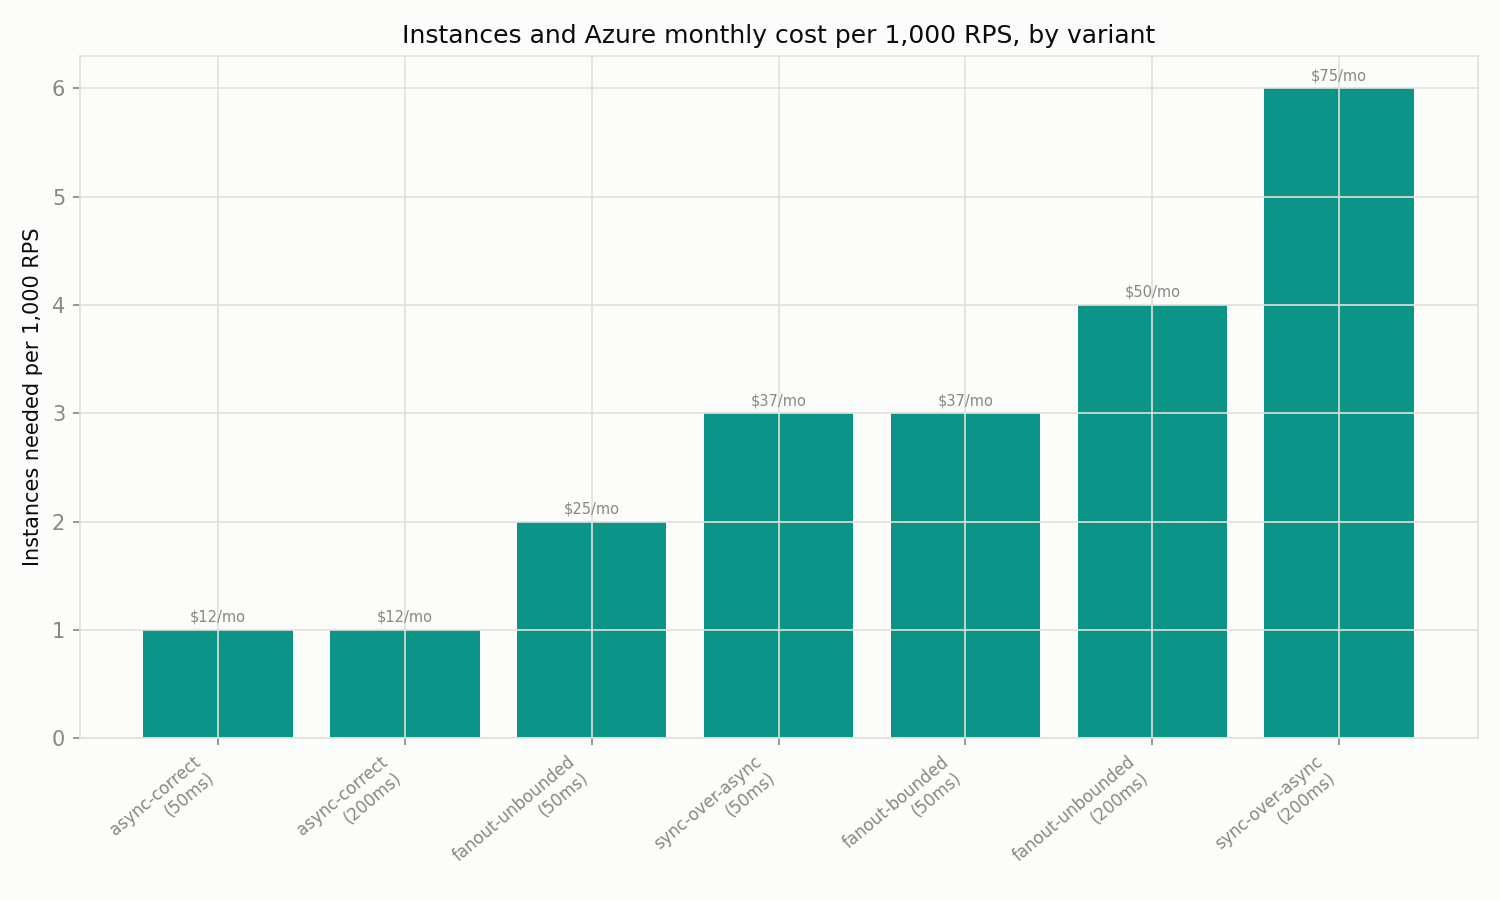
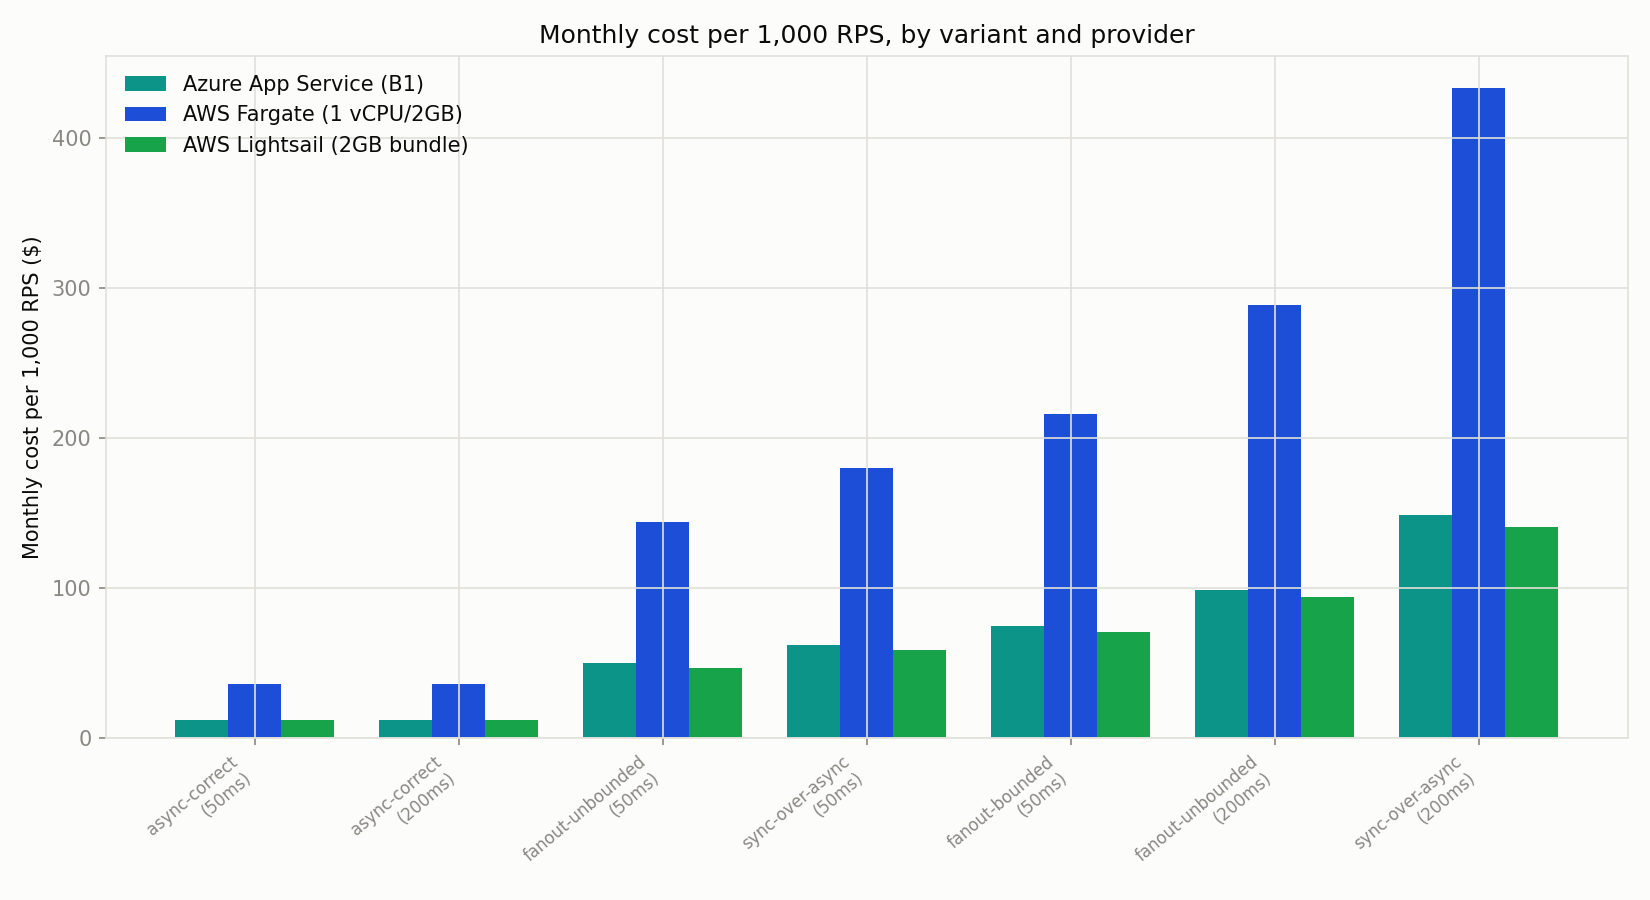
feat(bench): add live AWS Lightsail pricing for a fairer AWS comparison

diff --git a/companion-code/async-await-web-api-cloud-costs/scripts/cost_model.py b/companion-code/async-await-web-api-cloud-costs/scripts/cost_model.py
@@ -92,6 +92,48 @@ def pick_azure_plan(items):
     }
 
 
+def fetch_aws_lightsail_prices():
+    """Downloads the AWS Lightsail (AmazonLightsail) region price index for us-east-1."""
+    index_url = "https://pricing.us-east-1.amazonaws.com/offers/v1.0/aws/AmazonLightsail/current/region_index.json"
+    r = requests.get(index_url, timeout=30)
+    r.raise_for_status()
+    region_file = r.json()["regions"][AWS_REGION]["currentVersionUrl"]
+    r2 = requests.get(f"https://pricing.us-east-1.amazonaws.com{region_file}", timeout=60)
+    r2.raise_for_status()
+    return r2.json()
+
+
+def extract_lightsail_rate(price_data):
+    """Finds the standard Linux Lightsail instance bundle closest to 2GB RAM.
+
+    As of late 2026, AWS's smallest standard Lightsail Linux bundles are all
+    2 vCPU (burstable), not 1 vCPU; there is no exact 1 vCPU / 2GB bundle
+    published. The "2GB" bundle (2 vCPU, 2GB RAM) is the closest RAM match,
+    so this is a generous comparison for Lightsail: more CPU than the
+    benchmark's 1 vCPU container for the same price.
+    """
+    products = price_data["products"]
+    terms = price_data["terms"]["OnDemand"]
+    for sku, product in products.items():
+        attrs = product.get("attributes", {})
+        if attrs.get("servicecode") != "AmazonLightsail":
+            continue
+        if attrs.get("group") != "Lightsail Instance":
+            continue
+        if attrs.get("operatingSystem") != "Linux":
+            continue
+        if attrs.get("usagetype") != "USE1-BundleUsage:2GB":
+            continue
+        for _, term in terms.get(sku, {}).items():
+            for _, dim in term["priceDimensions"].items():
+                return {
+                    "vcpu": float(attrs.get("vcpu", 0)),
+                    "memory": attrs.get("memory"),
+                    "hourly_usd": float(dim["pricePerUnit"]["USD"]),
+                }
+    return None
+
+
 def extract_fargate_rates(price_data):
     products = price_data["products"]
     terms = price_data["terms"]["OnDemand"]
@@ -135,7 +177,7 @@ def max_sustainable_rps_per_variant(rows):
 
 def main():
     parser = argparse.ArgumentParser()
-    parser.add_argument("--target-rps", default="1000,5000,20000")
+    parser.add_argument("--target-rps", default="1000,2000,5000,20000")
     parser.add_argument("--headroom", type=float, default=0.65)
     args = parser.parse_args()
     targets = [int(x) for x in args.target_rps.split(",")]
@@ -150,6 +192,11 @@ def main():
     fargate_hourly = (vcpu_rate or 0) * 1 + (mem_rate or 0) * 2  # 1 vCPU, 2 GB
     fargate_monthly = fargate_hourly * 24 * 30.44
 
+    print("Fetching live AWS Lightsail prices...")
+    lightsail_data = fetch_aws_lightsail_prices()
+    lightsail = extract_lightsail_rate(lightsail_data)
+    lightsail_monthly = (lightsail["hourly_usd"] * 24 * 30.44) if lightsail else None
+
     prices = {
         "fetched_at_utc": datetime.now(timezone.utc).isoformat(),
         "region": {"azure": REGION, "aws": AWS_REGION},
@@ -162,10 +209,17 @@ def main():
             "hourly_usd": fargate_hourly,
             "monthly_usd": fargate_monthly,
         },
+        "aws_lightsail_2gb": {
+            **(lightsail or {}),
+            "monthly_usd": lightsail_monthly,
+            "note": "Closest standard Linux bundle by RAM; it's 2 vCPU, not 1, so this "
+                    "is generous to Lightsail versus the benchmark's 1 vCPU container.",
+        },
     }
     (RESULTS / "prices.json").write_text(json.dumps(prices, indent=2))
     print(f"Saved results/prices.json (Azure {azure_plan['tier'] if azure_plan else 'N/A'}, "
-          f"${prices['azure_monthly_usd']:.2f}/mo; Fargate ${fargate_monthly:.2f}/mo)")
+          f"${prices['azure_monthly_usd']:.2f}/mo; Fargate ${fargate_monthly:.2f}/mo; "
+          f"Lightsail ${lightsail_monthly:.2f}/mo)")
 
     rows = load_summary()
     sustainable_rps = max_sustainable_rps_per_variant(rows)
@@ -173,6 +227,14 @@ def main():
 
     lines = ["# Cost table", "", f"Prices fetched {prices['fetched_at_utc']}, "
              f"region: Azure {REGION} / AWS {AWS_REGION}, on-demand rates only.", "",
+             f"Azure App Service: {azure_plan['tier'] if azure_plan else 'N/A'} "
+             f"({azure_plan['vcpu'] if azure_plan else '?'} vCPU, {azure_plan['ram_gb'] if azure_plan else '?'}GB), "
+             "the closest published tier to 1 vCPU / 2GB. "
+             f"AWS Fargate: exact 1 vCPU / 2GB task. "
+             f"AWS Lightsail: the \"2GB\" standard Linux bundle "
+             f"({lightsail['vcpu'] if lightsail else '?'} vCPU, {lightsail['memory'] if lightsail else '?'}) "
+             "is the closest published bundle by RAM, but it's 2 vCPU, not 1, so it's a generous "
+             "comparison point for Lightsail, not an exact match.", "",
              f"Headroom factor: {args.headroom} (instances = ceil(target_rps / (sustainable_rps_per_instance * headroom))).",
              ""]
 
@@ -180,19 +242,20 @@ def main():
         lines.append(f"## Target: {target:,} RPS")
         lines.append("")
         lines.append("| Endpoint | Stub latency | Sustainable RPS/instance | Instances needed | "
-                      "Azure $/mo | AWS Fargate $/mo | Ratio vs best |")
-        lines.append("|---|---|---|---|---|---|---|")
+                      "Azure App Service $/mo | AWS Fargate $/mo | AWS Lightsail $/mo | Ratio vs best |")
+        lines.append("|---|---|---|---|---|---|---|---|")
         for (endpoint, latency), rps in sorted(sustainable_rps.items(), key=lambda kv: -kv[1]):
             if rps <= 0:
                 continue
             import math
             instances = math.ceil(target / (rps * args.headroom))
             azure_cost = instances * (prices["azure_monthly_usd"] or 0)
-            aws_cost = instances * fargate_monthly
+            fargate_cost = instances * fargate_monthly
+            lightsail_cost = instances * (lightsail_monthly or 0)
             best_instances = math.ceil(target / (best_rps * args.headroom))
             ratio = instances / best_instances if best_instances else None
             lines.append(f"| {endpoint} | {latency}ms | {rps:.1f} | {instances} | "
-                          f"${azure_cost:,.0f} | ${aws_cost:,.0f} | {ratio:.1f}x |")
+                          f"${azure_cost:,.0f} | ${fargate_cost:,.0f} | ${lightsail_cost:,.0f} | {ratio:.1f}x |")
         lines.append("")
 
     (RESULTS / "cost_table.md").write_text("\n".join(lines))

diff --git a/companion-code/async-await-web-api-cloud-costs/scripts/make_charts.py b/companion-code/async-await-web-api-cloud-costs/scripts/make_charts.py
@@ -131,13 +131,15 @@ def chart_cost_per_1000_rps():
     for line in lines:
         if line.startswith("| ") and "Instances needed" not in line and "---" not in line:
             parts = [p.strip() for p in line.strip("|").split("|")]
-            if len(parts) >= 6:
+            if len(parts) >= 8:
                 try:
                     rows.append({
                         "endpoint": parts[0],
                         "latency": parts[1],
                         "instances": int(parts[3]),
                         "azure": float(parts[4].replace("$", "").replace(",", "")),
+                        "fargate": float(parts[5].replace("$", "").replace(",", "")),
+                        "lightsail": float(parts[6].replace("$", "").replace(",", "")),
                     })
                 except ValueError:
                     continue
@@ -147,17 +149,21 @@ def chart_cost_per_1000_rps():
     df = pd.DataFrame(rows).drop_duplicates(subset=["endpoint", "latency"])
     df = df.sort_values("instances")
 
-    fig, ax1 = plt.subplots(figsize=(10, 6))
+    providers = [("azure", "Azure App Service (B1)"), ("fargate", "AWS Fargate (1 vCPU/2GB)"),
+                 ("lightsail", "AWS Lightsail (2GB bundle)")]
+    fig, ax = plt.subplots(figsize=(11, 6))
     labels = [f"{r.endpoint}\n({r.latency})" for r in df.itertuples()]
-    x = range(len(df))
-    ax1.bar(x, df["instances"], color=CATEGORICAL[0])
-    ax1.set_ylabel("Instances needed per 1,000 RPS")
-    ax1.set_xticks(list(x))
-    ax1.set_xticklabels(labels, rotation=40, ha="right", fontsize=8)
-    ax1.set_title("Instances and Azure monthly cost per 1,000 RPS, by variant")
-    for i, v in enumerate(df["azure"]):
-        ax1.annotate(f"${v:,.0f}/mo", (i, df["instances"].iloc[i]),
-                     textcoords="offset points", xytext=(0, 4), ha="center", fontsize=7, color=MUTED)
+    x = list(range(len(df)))
+    width = 0.26
+    for i, (col, label) in enumerate(providers):
+        offset = (i - 1) * width
+        ax.bar([xi + offset for xi in x], df[col], width,
+               label=label, color=CATEGORICAL[i % len(CATEGORICAL)])
+    ax.set_ylabel("Monthly cost per 1,000 RPS ($)")
+    ax.set_xticks(x)
+    ax.set_xticklabels(labels, rotation=40, ha="right", fontsize=8)
+    ax.set_title("Monthly cost per 1,000 RPS, by variant and provider")
+    ax.legend(frameon=False)
     fig.tight_layout()
     fig.savefig(CHARTS / "cost_per_1000_rps.png", dpi=150)
     plt.close(fig)

diff --git a/companion-code/async-await-web-api-cloud-costs/results/cost_table.md b/companion-code/async-await-web-api-cloud-costs/results/cost_table.md
@@ -1,41 +1,55 @@
 # Cost table
 
-Prices fetched 2026-10-26T22:26:52.540036+00:00, region: Azure eastus / AWS us-east-1, on-demand rates only.
+Prices fetched 2026-10-27T17:59:33.083993+00:00, region: Azure eastus / AWS us-east-1, on-demand rates only.
+
+Azure App Service: B1 (1 vCPU, 1.75GB), the closest published tier to 1 vCPU / 2GB. AWS Fargate: exact 1 vCPU / 2GB task. AWS Lightsail: the "2GB" standard Linux bundle (2.0 vCPU, 2GB) is the closest published bundle by RAM, but it's 2 vCPU, not 1, so it's a generous comparison point for Lightsail, not an exact match.
 
 Headroom factor: 0.65 (instances = ceil(target_rps / (sustainable_rps_per_instance * headroom))).
 
-## Target: 500 RPS
+## Target: 1,000 RPS
 
-| Endpoint | Stub latency | Sustainable RPS/instance | Instances needed | Azure $/mo | AWS Fargate $/mo | Ratio vs best |
-|---|---|---|---|---|---|---|
-| async-correct | 50ms | 3298.1 | 1 | $12 | $36 | 1.0x |
-| async-correct | 200ms | 1861.4 | 1 | $12 | $36 | 1.0x |
-| fanout-unbounded | 50ms | 500.6 | 2 | $25 | $72 | 2.0x |
-| sync-over-async | 50ms | 367.4 | 3 | $37 | $108 | 3.0x |
-| fanout-bounded | 50ms | 281.6 | 3 | $37 | $108 | 3.0x |
-| fanout-unbounded | 200ms | 199.0 | 4 | $50 | $144 | 4.0x |
-| sync-over-async | 200ms | 135.0 | 6 | $75 | $216 | 6.0x |
+| Endpoint | Stub latency | Sustainable RPS/instance | Instances needed | Azure App Service $/mo | AWS Fargate $/mo | AWS Lightsail $/mo | Ratio vs best |
+|---|---|---|---|---|---|---|---|
+| async-correct | 50ms | 3298.1 | 1 | $12 | $36 | $12 | 1.0x |
+| async-correct | 200ms | 1861.4 | 1 | $12 | $36 | $12 | 1.0x |
+| fanout-unbounded | 50ms | 500.6 | 4 | $50 | $144 | $47 | 4.0x |
+| sync-over-async | 50ms | 367.4 | 5 | $62 | $180 | $59 | 5.0x |
+| fanout-bounded | 50ms | 281.6 | 6 | $75 | $216 | $71 | 6.0x |
+| fanout-unbounded | 200ms | 199.0 | 8 | $99 | $289 | $94 | 8.0x |
+| sync-over-async | 200ms | 135.0 | 12 | $149 | $433 | $141 | 12.0x |
 
 ## Target: 2,000 RPS
 
-| Endpoint | Stub latency | Sustainable RPS/instance | Instances needed | Azure $/mo | AWS Fargate $/mo | Ratio vs best |
-|---|---|---|---|---|---|---|
-| async-correct | 50ms | 3298.1 | 1 | $12 | $36 | 1.0x |
-| async-correct | 200ms | 1861.4 | 2 | $25 | $72 | 2.0x |
-| fanout-unbounded | 50ms | 500.6 | 7 | $87 | $252 | 7.0x |
-| sync-over-async | 50ms | 367.4 | 9 | $112 | $325 | 9.0x |
-| fanout-bounded | 50ms | 281.6 | 11 | $137 | $397 | 11.0x |
-| fanout-unbounded | 200ms | 199.0 | 16 | $199 | $577 | 16.0x |
-| sync-over-async | 200ms | 135.0 | 23 | $286 | $830 | 23.0x |
+| Endpoint | Stub latency | Sustainable RPS/instance | Instances needed | Azure App Service $/mo | AWS Fargate $/mo | AWS Lightsail $/mo | Ratio vs best |
+|---|---|---|---|---|---|---|---|
+| async-correct | 50ms | 3298.1 | 1 | $12 | $36 | $12 | 1.0x |
+| async-correct | 200ms | 1861.4 | 2 | $25 | $72 | $24 | 2.0x |
+| fanout-unbounded | 50ms | 500.6 | 7 | $87 | $252 | $82 | 7.0x |
+| sync-over-async | 50ms | 367.4 | 9 | $112 | $325 | $106 | 9.0x |
+| fanout-bounded | 50ms | 281.6 | 11 | $137 | $397 | $130 | 11.0x |
+| fanout-unbounded | 200ms | 199.0 | 16 | $199 | $577 | $188 | 16.0x |
+| sync-over-async | 200ms | 135.0 | 23 | $286 | $830 | $271 | 23.0x |
 
-## Target: 10,000 RPS
+## Target: 5,000 RPS
 
-| Endpoint | Stub latency | Sustainable RPS/instance | Instances needed | Azure $/mo | AWS Fargate $/mo | Ratio vs best |
-|---|---|---|---|---|---|---|
-| async-correct | 50ms | 3298.1 | 5 | $62 | $180 | 1.0x |
-| async-correct | 200ms | 1861.4 | 9 | $112 | $325 | 1.8x |
-| fanout-unbounded | 50ms | 500.6 | 31 | $385 | $1,118 | 6.2x |
-| sync-over-async | 50ms | 367.4 | 42 | $522 | $1,515 | 8.4x |
-| fanout-bounded | 50ms | 281.6 | 55 | $683 | $1,984 | 11.0x |
-| fanout-unbounded | 200ms | 199.0 | 78 | $969 | $2,813 | 15.6x |
-| sync-over-async | 200ms | 135.0 | 114 | $1,416 | $4,112 | 22.8x |
+| Endpoint | Stub latency | Sustainable RPS/instance | Instances needed | Azure App Service $/mo | AWS Fargate $/mo | AWS Lightsail $/mo | Ratio vs best |
+|---|---|---|---|---|---|---|---|
+| async-correct | 50ms | 3298.1 | 3 | $37 | $108 | $35 | 1.0x |
+| async-correct | 200ms | 1861.4 | 5 | $62 | $180 | $59 | 1.7x |
+| fanout-unbounded | 50ms | 500.6 | 16 | $199 | $577 | $188 | 5.3x |
+| sync-over-async | 50ms | 367.4 | 21 | $261 | $757 | $247 | 7.0x |
+| fanout-bounded | 50ms | 281.6 | 28 | $348 | $1,010 | $330 | 9.3x |
+| fanout-unbounded | 200ms | 199.0 | 39 | $484 | $1,407 | $459 | 13.0x |
+| sync-over-async | 200ms | 135.0 | 57 | $708 | $2,056 | $671 | 19.0x |
+
+## Target: 20,000 RPS
+
+| Endpoint | Stub latency | Sustainable RPS/instance | Instances needed | Azure App Service $/mo | AWS Fargate $/mo | AWS Lightsail $/mo | Ratio vs best |
+|---|---|---|---|---|---|---|---|
+| async-correct | 50ms | 3298.1 | 10 | $124 | $361 | $118 | 1.0x |
+| async-correct | 200ms | 1861.4 | 17 | $211 | $613 | $200 | 1.7x |
+| fanout-unbounded | 50ms | 500.6 | 62 | $770 | $2,236 | $730 | 6.2x |
+| sync-over-async | 50ms | 367.4 | 84 | $1,043 | $3,030 | $989 | 8.4x |
+| fanout-bounded | 50ms | 281.6 | 110 | $1,366 | $3,967 | $1,295 | 11.0x |
+| fanout-unbounded | 200ms | 199.0 | 155 | $1,925 | $5,591 | $1,825 | 15.5x |
+| sync-over-async | 200ms | 135.0 | 228 | $2,832 | $8,223 | $2,685 | 22.8x |
